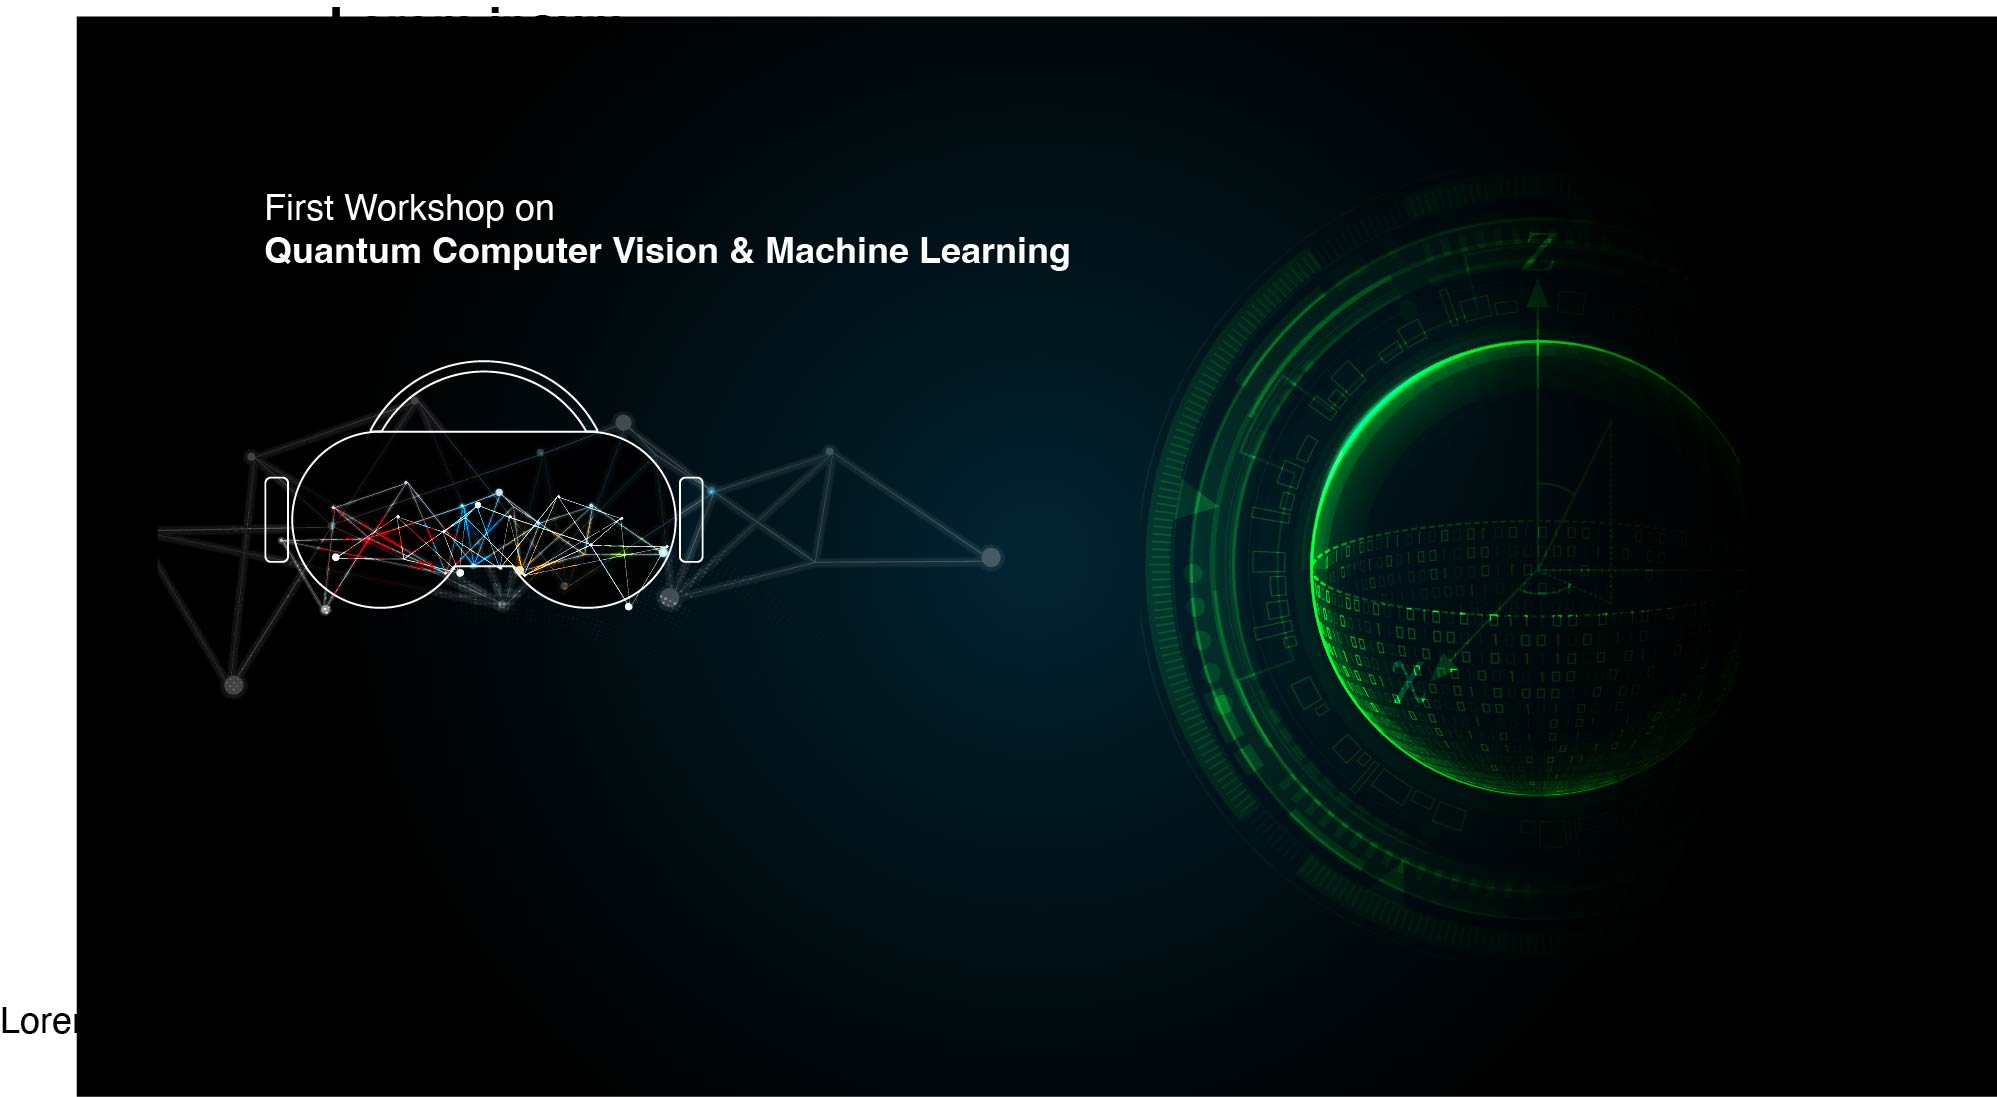
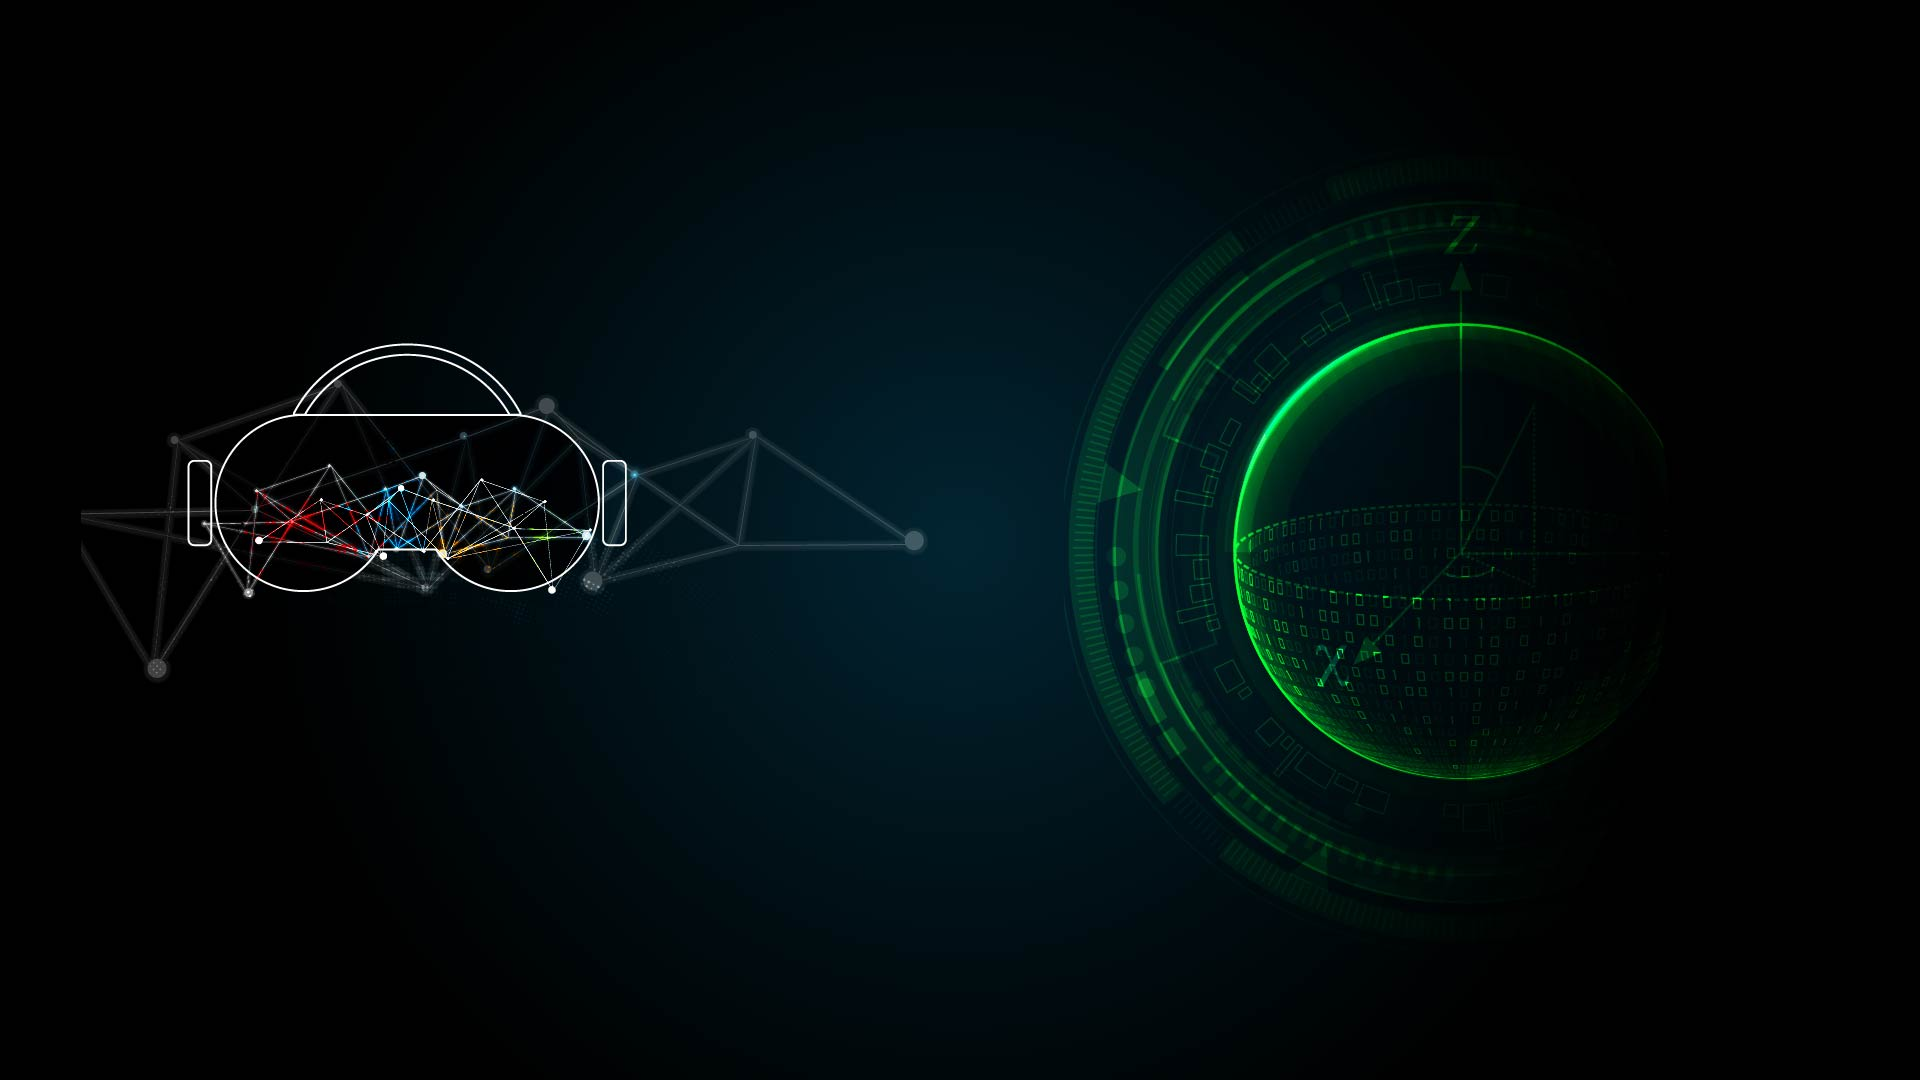
Announcement state

diff --git a/index.html b/index.html
@@ -12,7 +12,7 @@
 
 		<!--== CSS Files ==-->
 		<link href="css/bootstrap.min.css" rel="stylesheet" media="screen">
-		<link href="css/style.min.css" rel="stylesheet" media="screen">
+		<link href="css/style.css" rel="stylesheet" media="screen">
 		<link href="css/animate.min.css" rel="stylesheet" media="screen">
 		<link href="css/font-awesome.css" rel="stylesheet" media="screen">
 		<link href="css/flexslider.css" rel="stylesheet" media="screen">
@@ -40,6 +40,9 @@
 			<!--== Preloader ==-->
 			<div id="preloader"><div class="preloader"></div></div>
 
+			<!--== New Title at the Very Top ==-->
+			<h1 class="top-title">2nd Workshop on<br/>Quantum Computer Vision and Machine Learning</h1>
+
 			<!--== Caption ==-->
 			<div class="header-caption" data-stellar-ratio="2">
 				<div class="container">
@@ -54,7 +57,7 @@
 			<!--== Header Background ==-->
 			<div id="header-background" class="header-background">
 				<ul class="slides">
-                    <li><img src="images/images_eccv24/QCVML.png" alt="ECCV Workshop 2024 - QCVML2024"></li>
+                    <li><img src="images/images_generic/QCVML.jpg" alt="ECCV Workshop 2024 - QCVML2024"></li>
                     <!--<li><img src="images/images_eccv24/bg-slide-02.jpg" alt="Slide 2"></li>-->
 				</ul>
 			</div>
@@ -79,7 +82,7 @@
 						<div class="collapse navbar-collapse" id="menu">
 							<ul class="nav navbar-nav">
 								<li class="active"><a href="#home">Home</a></li>
-                                <li><a href="#goals">Thema</a></li>
+                                <li><a href="#goals">Goals</a></li>
                                 <li><a href="#speakers">Speakers</a></li>
 								<li><a href="#schedule">Schedule</a></li>
 								<li><a href="#papers">Papers</a></li>
@@ -180,13 +183,13 @@
 				<div class="row">
 					<div class="col-sm-6 col-md-3 ">
                         <div class="speaker">
-							<img src="images/images_eccv24/speakers/colin-wilmott.jpg" alt="<Colin Wilmott">
+							<img src="images/images_eccv24/speakers/bjoern-ommer.jpg" alt="<Bjoern Ommer">
 							<div class="speaker-info">
-								<h3>Colin<br> <b>Wilmott</b></h3>
-								<p>Senior Lecturer<br>Nottingham Trent University</p>
+								<h3>Björn<br> <b>Ommer</b></h3>
+								<p>Professor<br>Ludwig-Maximilians-Universität München</p>
 							</div>
 							<ul class="speaker-contacts">
-								<li><a target="_blank" href="https://www.ntu.ac.uk/staff-profiles/science-technology/colin-wilmott" class="fa fa-linkedin"></a></li>
+                                <li><a target="_blank" href="https://ommer-lab.com/people/ommer/" class="fa fa-home"></a></li>
 							</ul>
 						</div>
                     </div>
@@ -215,15 +218,15 @@
 							</ul>
 						</div>
 					</div>
-                    <div class="col-sm-6 col-md-3 ">
+					<div class="col-sm-6 col-md-3 ">
                         <div class="speaker">
-							<img src="images/images_eccv24/speakers/bjoern-ommer.jpg" alt="<Bjoern Ommer">
+							<img src="images/images_eccv24/speakers/colin-wilmott.jpg" alt="<Colin Wilmott">
 							<div class="speaker-info">
-								<h3>Björn<br> <b>Ommer</b></h3>
-								<p>Professor<br>Ludwig-Maximilians-Universität München</p>
+								<h3>Colin<br> <b>Wilmott</b></h3>
+								<p>Senior Lecturer<br>Nottingham Trent University</p>
 							</div>
 							<ul class="speaker-contacts">
-                                <li><a target="_blank" href="https://ommer-lab.com/people/ommer/" class="fa fa-home"></a></li>
+								<li><a target="_blank" href="https://www.ntu.ac.uk/staff-profiles/science-technology/colin-wilmott" class="fa fa-linkedin"></a></li>
 							</ul>
 						</div>
                     </div>
@@ -251,7 +254,7 @@
 												<span class="schedule-time accent">
 													13<sup>00</sup>
 												</span>
-												<h4 class="accordion-title">Opening Remarks</h4>
+												<h4 class="accordion-title">Opening Remarks and Organizer's Talk</h4>
 											</a>
                                             <div class="accordion-body">
 												<p>
@@ -262,23 +265,23 @@
 										<li>
 											<a class="accordion-heading">
 												<span class="schedule-time accent">
-													13<sup>15</sup>
+													13<sup>45</sup>
 												</span>
 												<div class="schedule-speaker">
-													<img src="images/images_eccv24/speakers/michael-moeller.png" alt="Michael Moeller">
+													<img src="images/images_eccv24/speakers/devesh-tiwari.jpg" alt="Devesh Tiwari">
 												</div>
-												<h4 class="accordion-title">Invited talk by <b>Michael Moeller</b></h4>
+												<h4 class="accordion-title">Invited talk by <b>Devesh Tiwari</b></h4>
 											</a>
 										</li>
 										<li>
 											<a class="accordion-heading">
 												<span class="schedule-time accent">
-													14<sup>00</sup>
+													14<sup>15</sup>
 												</span>
 												<div class="schedule-speaker">
-													<img src="images/images_eccv24/speakers/bondesan.jpeg" alt="Roberto Bondesan">
+													<img src="images/images_eccv24/speakers/colin-wilmott.jpg" alt="Colin Wilmott">
 												</div>
-												<h4 class="accordion-title">Invited talk by <b>Roberto Bondesan</b></h4>
+												<h4 class="accordion-title">Invited talk by <b>Colin Wilmott</b></h4>
 											</a>
 										</li>
 										<li>
@@ -286,7 +289,7 @@
 												<span class="schedule-time accent">
 													14<sup>45</sup>
 												</span>
-												<h4 class="accordion-title">Morning  Coffee Break and Invited Poster Session</h4>
+												<h4 class="accordion-title">Coffee Break and Poster Session</h4>
 											</a>
 											<div class="accordion-body">
 												<p>
@@ -294,37 +297,39 @@
 												</p>
 											</div>
 										</li>
+										<li>
+											<a class="accordion-heading">
+												<span class="schedule-time accent">
+													14<sup>45</sup>
+												</span>
+												<h4 class="accordion-title">Contributed Presentations</h4>
+											</a>
+											<div class="accordion-body">
+												<p>
+													Enjoy presentations by the authors of accepted works.
+												</p>
+											</div>
+										</li>
                                         <li>
 											<a class="accordion-heading">
 												<span class="schedule-time accent">
-													15<sup>30</sup>
+													16<sup>45</sup>
 												</span>
 												<div class="schedule-speaker">
-													<img src="images/images_eccv24/speakers/anand.gif" alt="Anand Rangarajan">
+													<img src="images/images_eccv24/speakers/bjoern-ommer.jpg" alt="Björn Ommer">
 												</div>
-												<h4 class="accordion-title">Invited talk by <b>Anand Rangarajan</b></h4>
+												<h4 class="accordion-title">Invited talk by <b>Björn Ommer</b></h4>
 											</a>
 										</li>
 										<li>
 											<a class="accordion-heading">
 												<span class="schedule-time accent">
-													16<sup>15</sup>
+													17<sup>15</sup>
 												</span>
 												<div class="schedule-speaker">
 													<img src="images/images_eccv24/speakers/TJ.png" alt="Tat Jun Chin">
 												</div>
 												<h4 class="accordion-title">Invited talk by <b>Tat-Jun Chin</b></h4>
-											</a>
-										</li>
-										<li>
-											<a class="accordion-heading">
-												<span class="schedule-time accent">
-													17<sup>00</sup>
-												</span>
-												<div class="schedule-speaker">
-													<img src="images/images_eccv24/speakers/victoria.jpeg" alt="Victoria Goliber">
-												</div>
-												<h4 class="accordion-title">Invited talk by <b>Victoria Goliber</b></h4>
 											</a>
 										</li>
                                         <li>
@@ -477,26 +482,6 @@
 									</p>
 								</div>
 							</li>
-							<li>
-								<a class="accordion-heading">
-									<h4 class="accordion-title">Does QCVML accept paper submissions?</h4>
-								</a>
-								<div class="accordion-body">
-									<p>
-										No. Quantum computer vision is a very new area and we are hoping to solicit papers in the next versions of this workshop.</a>
-									</p>
-								</div>
-							</li>
-							<li>
-								<a class="accordion-heading">
-									<h4 class="accordion-title">How have the posters been selected?</h4>
-								</a>
-								<div class="accordion-body">
-									<p>
-										The poster session comprises papers previously peer-reviewed and published at major Computer Vision or Machine Learning conferences, focusing on topics closely related to Quantum Computer Vision. In addition to this, technical reports that show work-in-progress by researches that previously published in the field of quantum computer vision are also presented. These works will be clearly indicated as such.
-									</p>
-								</div>
-							</li>
 						</ul>
 					</div>
 				</div>
@@ -522,7 +507,7 @@
 					<div class="col-md-12">
 						<ul class="news-list">
 							<li class="news">
-								<span class="news-date">12 April</span>
+								<span class="news-date">30 April</span>
 								<a href=""><h4>The second QCVML workshop is happening at ECCV24!</h4></a>
 							</li>
 						</ul>

diff --git a/css/style.css b/css/style.css
@@ -373,6 +373,20 @@ Header
 	text-shadow: 1px 1px 1px rgba(0, 0, 0, 0.2);
 }
 
+.header .top-title {
+    position: absolute;
+    top: 2%; /* Adjust this value as needed */
+    left: 18%;
+    color: #c9c9c9;
+    font-size: 4rem;
+    font-weight: 700;
+    padding-left: 20px; /* Adds some padding from the left edge of the header */
+    width: 100%; /* Ensures it spans the full width if needed for background or other styling purposes */
+    text-align: left;
+    text-shadow: 1px 1px 1px rgba(0, 0, 0, 0.2); /* Enhances readability against backgrounds */
+	z-index: 40;
+}
+
 .header-caption .box span {
 	font-size: 4rem;
 	line-height: 1em;
